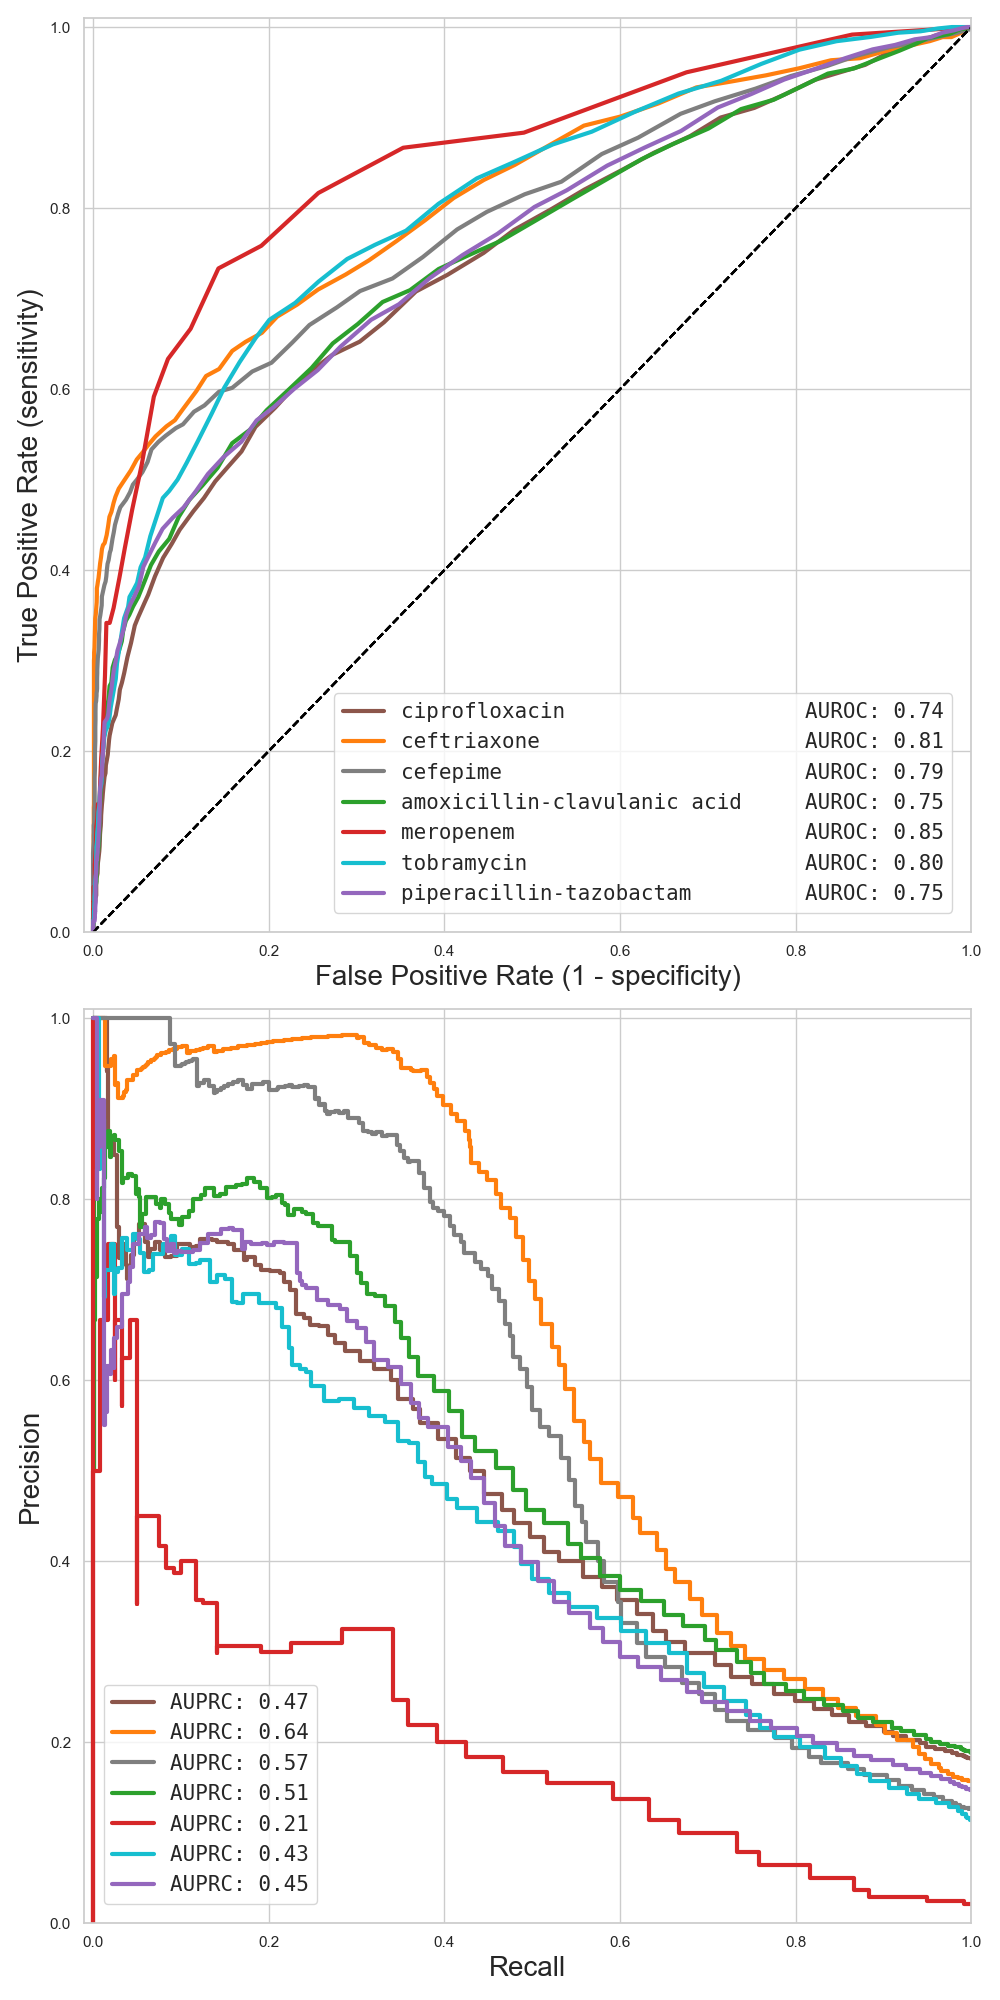
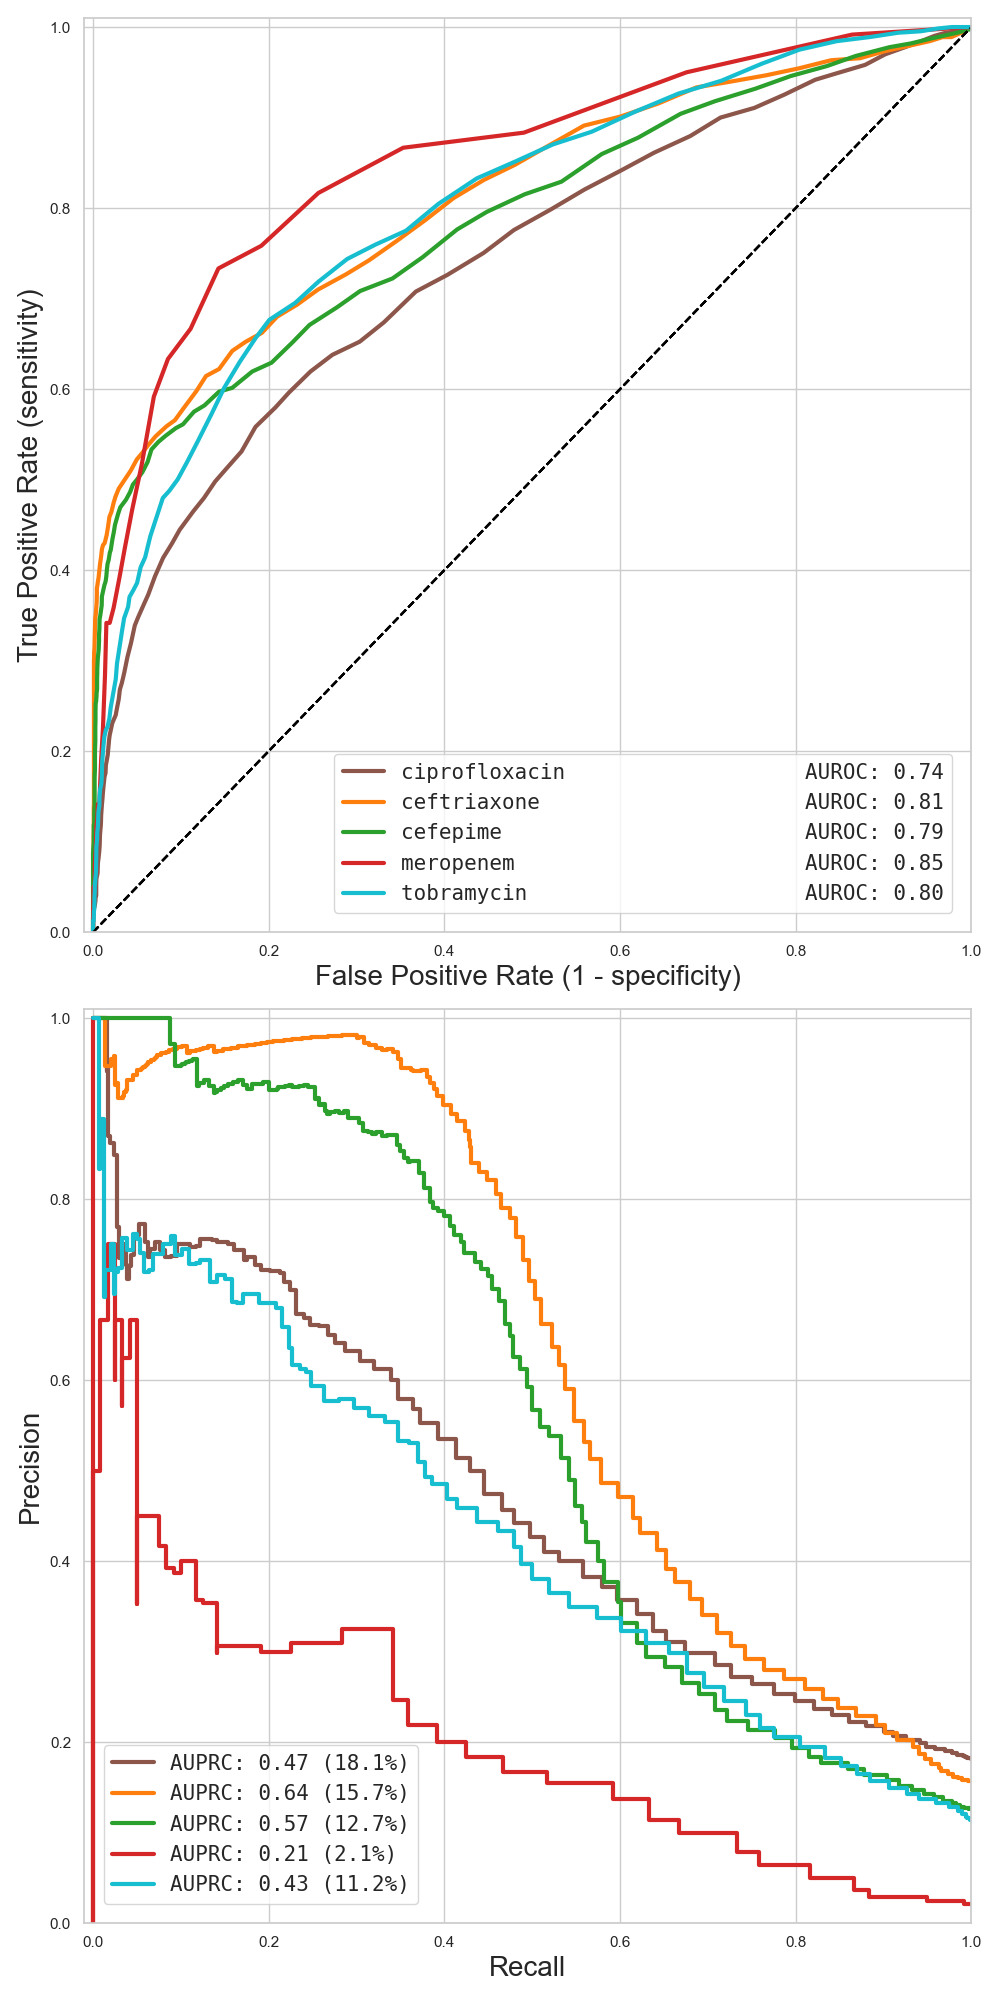
rm two antibiotics from fig4 and update color scheme; add class ratio to fig4 legend

diff --git a/amr_maldi_ml/plot_fig4_curves_per_species_and_antibiotic_2panels.py b/amr_maldi_ml/plot_fig4_curves_per_species_and_antibiotic_2panels.py
@@ -86,6 +86,11 @@ def plot_figure4(args):
                 y_score_total.extend([sc[1] for sc in data['y_score']])
                 y_test_total.extend(data['y_test'])
 
+        class_ratio = round(
+            float(sum(y_test_total)) / len(y_test_total) * 100,
+            1,
+                            )
+
         # ------------
         # panel1: ROC curve
         # ------------
@@ -119,7 +124,7 @@ def plot_figure4(args):
         while len(lab) < 32:
             lab = '{}\t'.format(lab).expandtabs()
         #lab = lab+'AUPRC: '+pretty_prauc[0]
-        lab = 'AUPRC: '+pretty_prauc[0]
+        lab = f'AUPRC: {pretty_prauc[0]} ({class_ratio}%)' 
 
         ax[1].step(recall, precision, color=col_ab, label=lab,
                    alpha=1.0, where='post', linewidth=3.0)

diff --git a/amr_maldi_ml/utilities.py b/amr_maldi_ml/utilities.py
@@ -128,12 +128,12 @@ maldi_col_map = {
 maldi_col_map_seaborn = {
     'Oxacillin': sns.color_palette()[0],
     'Ceftriaxone': sns.color_palette()[1],
-    'Amoxicillin-Clavulanic acid': sns.color_palette()[2],
+    'Amoxicillin-Clavulanic acid': sns.color_palette()[7],
     'Meropenem': sns.color_palette()[3],
     'Piperacillin-Tazobactam': sns.color_palette()[4],
     'Ciprofloxacin': sns.color_palette()[5],
     'Fusidic acid': sns.color_palette()[6],
-    'Cefepime': sns.color_palette()[7],
+    'Cefepime': sns.color_palette()[2],
     'Penicillin': sns.color_palette()[8],
     'Tobramycin': sns.color_palette()[9],
     }
